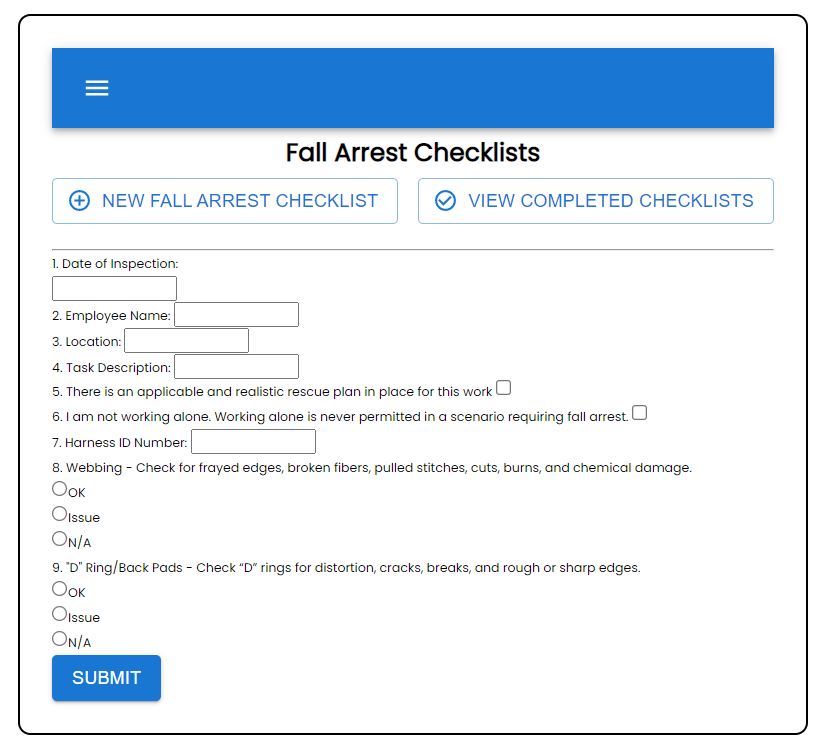
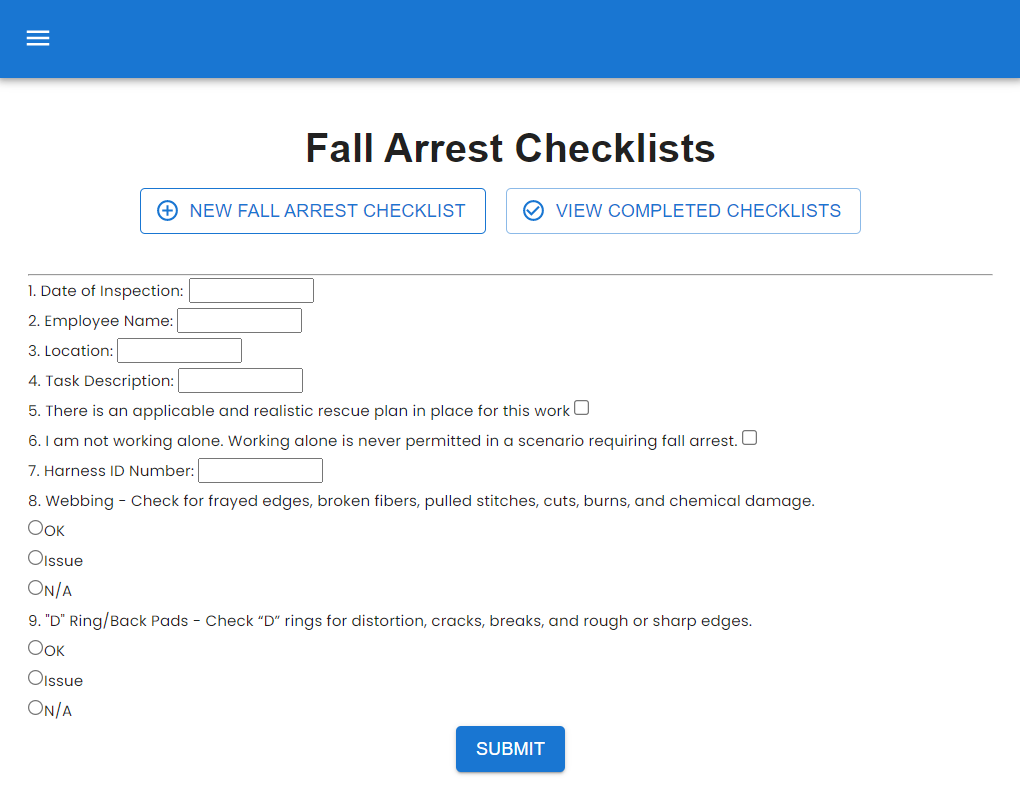
Formatting

diff --git a/src/components/heavyequipment/NewHEChecklist.jsx b/src/components/heavyequipment/NewHEChecklist.jsx
@@ -5,6 +5,7 @@ import { useNavigate } from "react-router-dom";
 import { v4 as uuidv4 } from "uuid";
 import "react-datepicker/dist/react-datepicker.css";
 import Button from "@mui/material/Button";
+import Box from "@mui/material/Box";
 
 const HEChecklist = ({ onSubmit }) => {
   const navigate = useNavigate();
@@ -218,13 +219,15 @@ const HEChecklist = ({ onSubmit }) => {
         ></input>
         N/A
         <br />
-        <Button
-          variant="contained"
-          className="submit"
-          onClick={submitChecklist}
-        >
-          Submit
-        </Button>
+        <Box textAlign="center">
+          <Button
+            variant="contained"
+            className="submit"
+            onClick={submitChecklist}
+          >
+            Submit
+          </Button>
+        </Box>
       </div>
     </div>
   );

diff --git a/src/components/fallarrest/NewFAChecklist.jsx b/src/components/fallarrest/NewFAChecklist.jsx
@@ -5,6 +5,7 @@ import "react-datepicker/dist/react-datepicker.css";
 import { useNavigate } from "react-router-dom";
 import { v4 as uuidv4 } from "uuid";
 import Button from "@mui/material/Button";
+import Box from "@mui/material/Box";
 
 const FAChecklist = ({ onSubmit }) => {
   const navigate = useNavigate();
@@ -192,13 +193,15 @@ const FAChecklist = ({ onSubmit }) => {
       ></input>
       N/A
       <div>
-        <Button
-          variant="contained"
-          className="submit"
-          onClick={submitChecklist}
-        >
-          Submit
-        </Button>
+        <Box textAlign="center">
+          <Button
+            variant="contained"
+            className="submit"
+            onClick={submitChecklist}
+          >
+            Submit
+          </Button>
+        </Box>
       </div>
     </div>
   );

diff --git a/src/components/lightvehicle/NewLVChecklist.jsx b/src/components/lightvehicle/NewLVChecklist.jsx
@@ -5,6 +5,7 @@ import { useNavigate } from "react-router-dom";
 import { v4 as uuidv4 } from "uuid";
 import "react-datepicker/dist/react-datepicker.css";
 import Button from "@mui/material/Button";
+import Box from "@mui/material/Box";
 
 const LVChecklist = ({ onSubmit }) => {
   const navigate = useNavigate();
@@ -187,9 +188,15 @@ const LVChecklist = ({ onSubmit }) => {
         }
       />
       <br />
-      <Button variant="contained" className="submit" onClick={submitChecklist}>
-        Submit
-      </Button>
+      <Box textAlign="center">
+        <Button
+          variant="contained"
+          className="submit"
+          onClick={submitChecklist}
+        >
+          Submit
+        </Button>
+      </Box>
     </div>
   );
 };

diff --git a/src/App.css b/src/App.css
@@ -34,10 +34,6 @@ h1 {
   justify-content: center;
 }
 
-.main-buttons {
-  display: block;
-}
-
 .icons {
   transform: scale(1.8);
 }
@@ -55,9 +51,13 @@ h1 {
   width: 70%;
 }
 
+.submit {
+  display: flex;
+}
+
 @media only screen and (min-width: 768px) {
   .date-picker-label {
-    width: 35%;
+    width: 20%;
   }
 }
 

diff --git a/src/components/fallarrest/FAMain.jsx b/src/components/fallarrest/FAMain.jsx
@@ -16,7 +16,6 @@ const FAMain = () => {
   return (
     <div>
       <h1>Fall Arrest Checklists</h1>
-      <div className="main-buttons"></div>
 
       <Stack style={{ justifyContent: "center" }} direction="row" spacing={2}>
         <Button

diff --git a/README.md b/README.md
@@ -1,8 +1,8 @@
-Summary and Status
+## Summary and Status
 
 This project is the first React project I've created in the Get Coding program and is currently under development. The goal of this project is to allow users to complete Fall Arrest Checklists, Light Vehicle Pre-Use Checklists, and Heavy Equipment Pre-Use Checklists. Users can also view previously completed checklists from local storage.
 
-Overview
+## Overview
 
 On load of the project, the user can select a checklist type from Fall Arrest, Light Vehicle Pre-Use, and Heavy Equipment Pre-Use.
 ![alt text](https://github.com/kbaillieul/checklist-project/blob/Branch1/images/checklist1.png)
@@ -10,20 +10,17 @@ On load of the project, the user can select a checklist type from Fall Arrest, L
 The user can click the New Checklist button to complete and submit a new checklist.
 ![alt text](https://github.com/kbaillieul/checklist-project/blob/Branch1/images/checklist2.png)
 
-The user can click the View Completed Checklists button to view the checklists that have already been submitted and stored on local storage. Completed checklists have bullet points that indicate any high priority issues indicated in the submitted checklists. Users can click the link with the checklist date to get all the submitted information from the checklist.
+The user can click the View Completed Checklists button to view the checklists that have already been submitted and stored on local storage. Completed checklists indicate any high priority issues on submitted checklists. Users can expand accordian with the checklist date to get all the submitted information from the checklist.
 ![alt text](https://github.com/kbaillieul/checklist-project/blob/Branch1/images/checklist3.png)
 
-Installation
+## Installation
+
 Clone down this repository. You will need node and npm installed globally on your machine.
 
-Installation:
+### Installation:
 
 npm install
 
-To Run Test Suite:
-
-npm test
-
-To Start Server:
+### To Start Server:
 
 npm start
